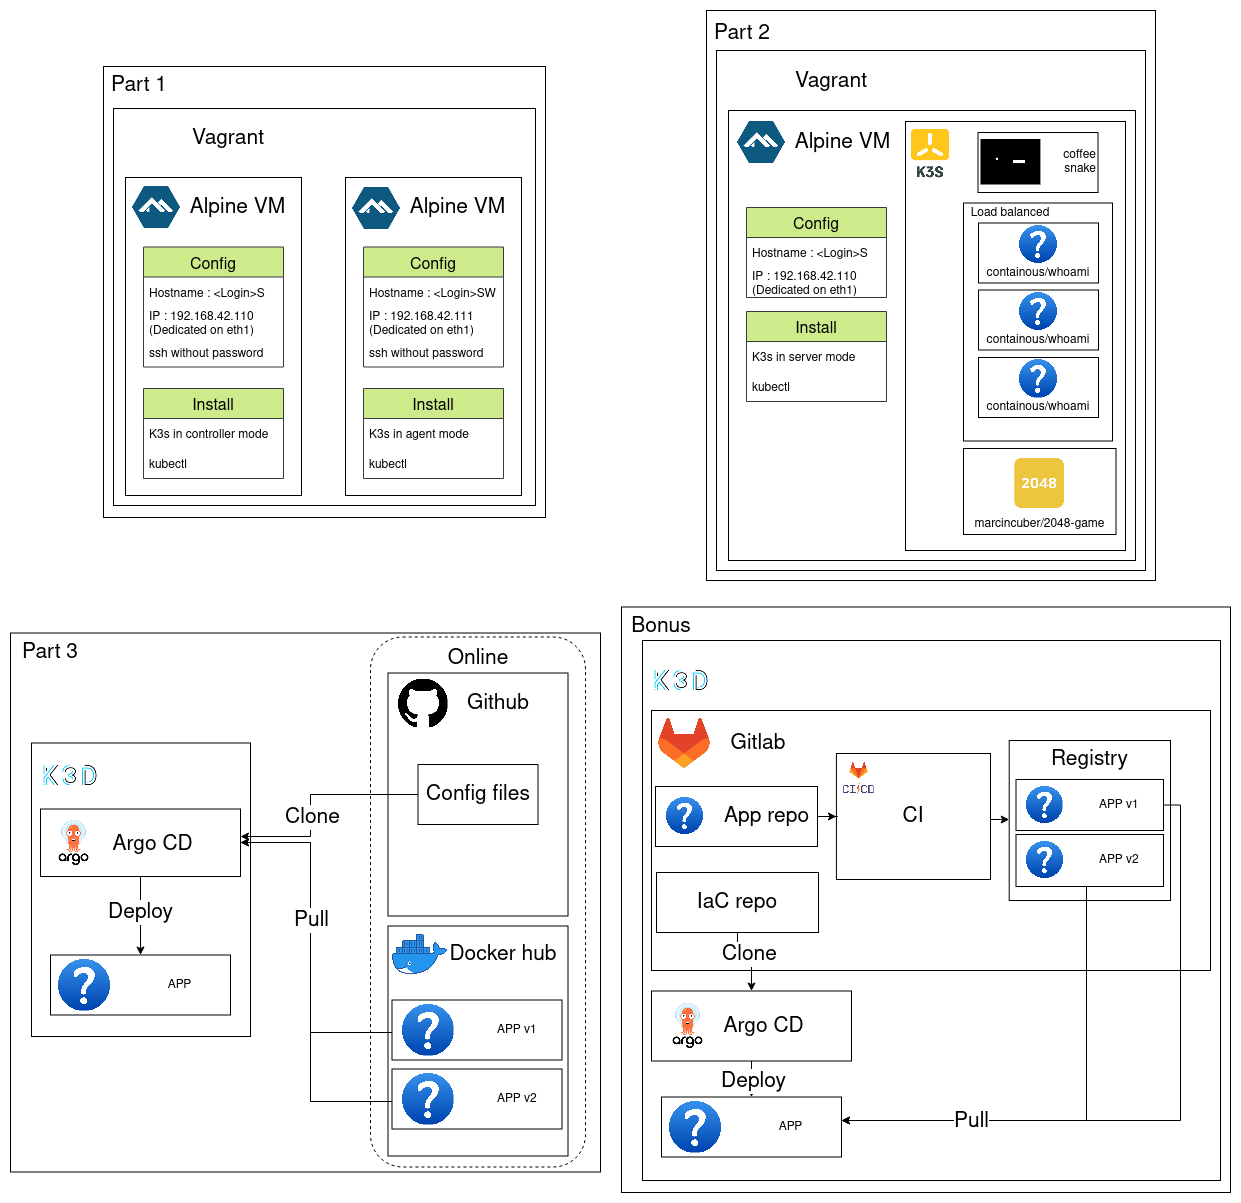
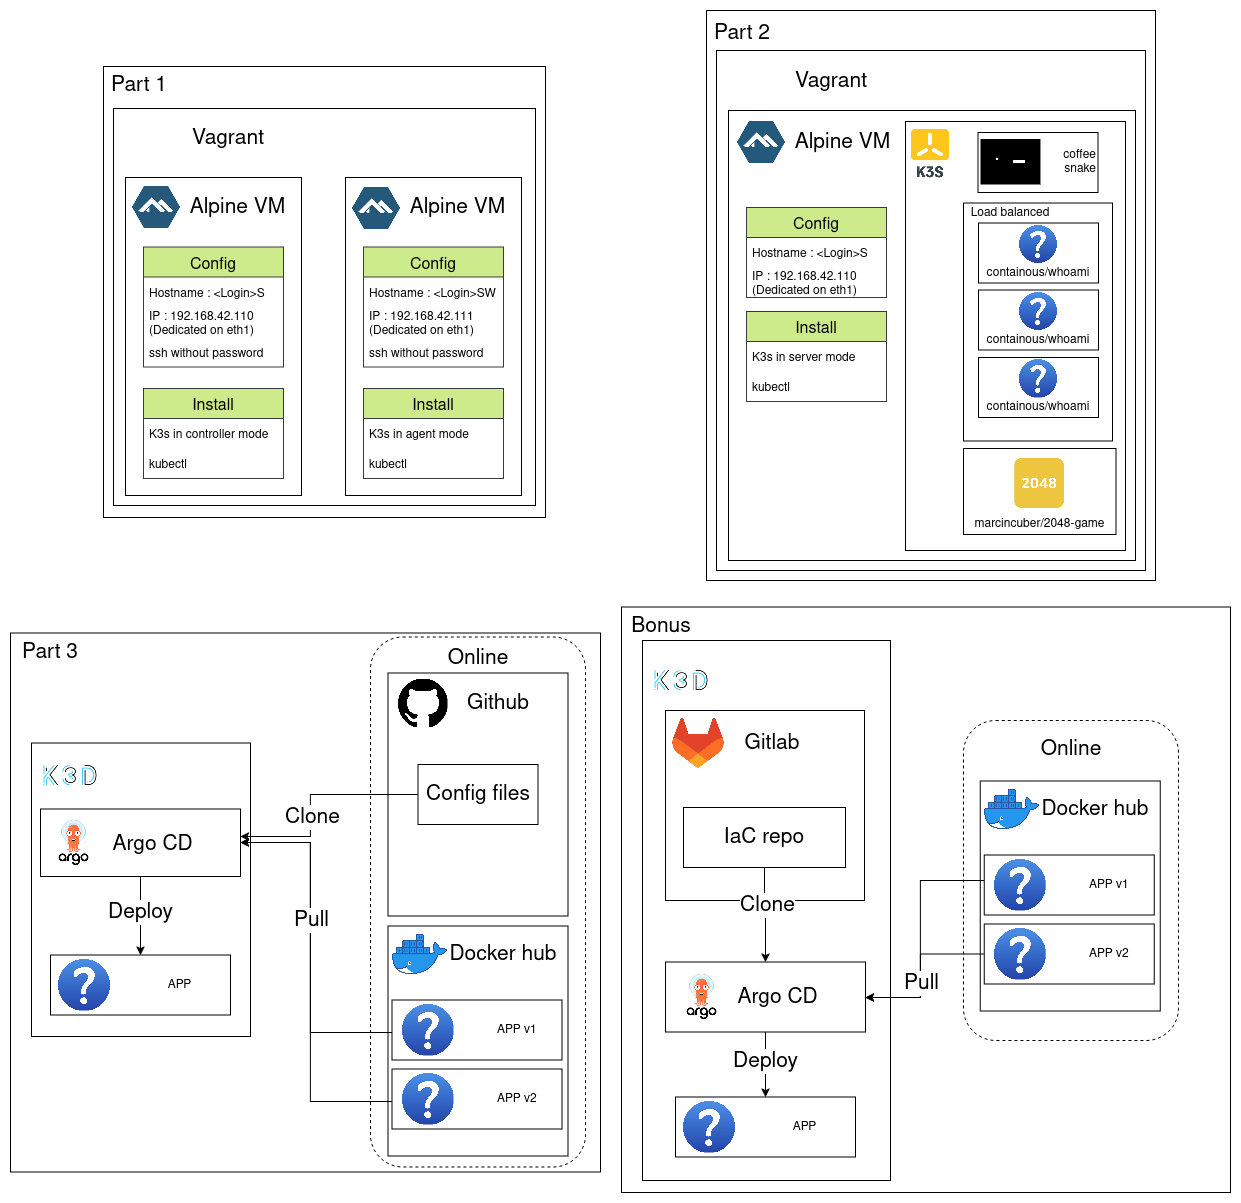
Updating readme + diagram

diff --git a/README.md b/README.md
@@ -16,10 +16,6 @@ As well as our own bonuses:
 
 - Implementing https and http to https redirection (p2)
 - Building docker image from Dockerfile locally (p2)
-- Building our own continuous integration
-- Publishing our own images to local Gitlab registry for usage in ArgoCD
-
-Leading us to a full in house cloud solution.
 
 ## Architecture
 ![architecture](.git-assets/architecture.png)
@@ -29,10 +25,21 @@ Leading us to a full in house cloud solution.
 
 This project was created to run on a Debian VM. It should work on any Debian/Ubuntu installation though.
 
-First, you need to install the dependencies. Every part was designed to run independently so the only thing to do is run the install_dependencies.sh script before launching each part.
+First, you need to install the dependencies. Every part was designed to run independently so the only thing to do is run the `install_dependencies.sh` script before launching each part.
 
 The first two parts can be run by executing `vagrant up` in the appropriate folder.
 
 Don't hesitate to run `vagrant destroy -f && vagrant up` if you already ran that part once.
 
 The third and bonus parts, which do not use Vagrant, can be run using the `init.sh` script in the scripts folder.
+
+For bonus part, it is mandatory to run first the `deploy_gitlab.sh` script (Then wait a loooong time for Gitlab to start) then the `populate_gitlab_repo.sh` script and finally set the newly created repository as a public one for ArgoCD to be able to access it.
+
+For parts two, three and bonus, we provide a `set_hosts.sh` script that will reset the `/etc/hosts` file to provide hostnames like :
+
+- app1.com
+- app2.com
+- app3.com
+- part3.iot.local
+- argocd.iot.local
+- gitlab.iot.local
